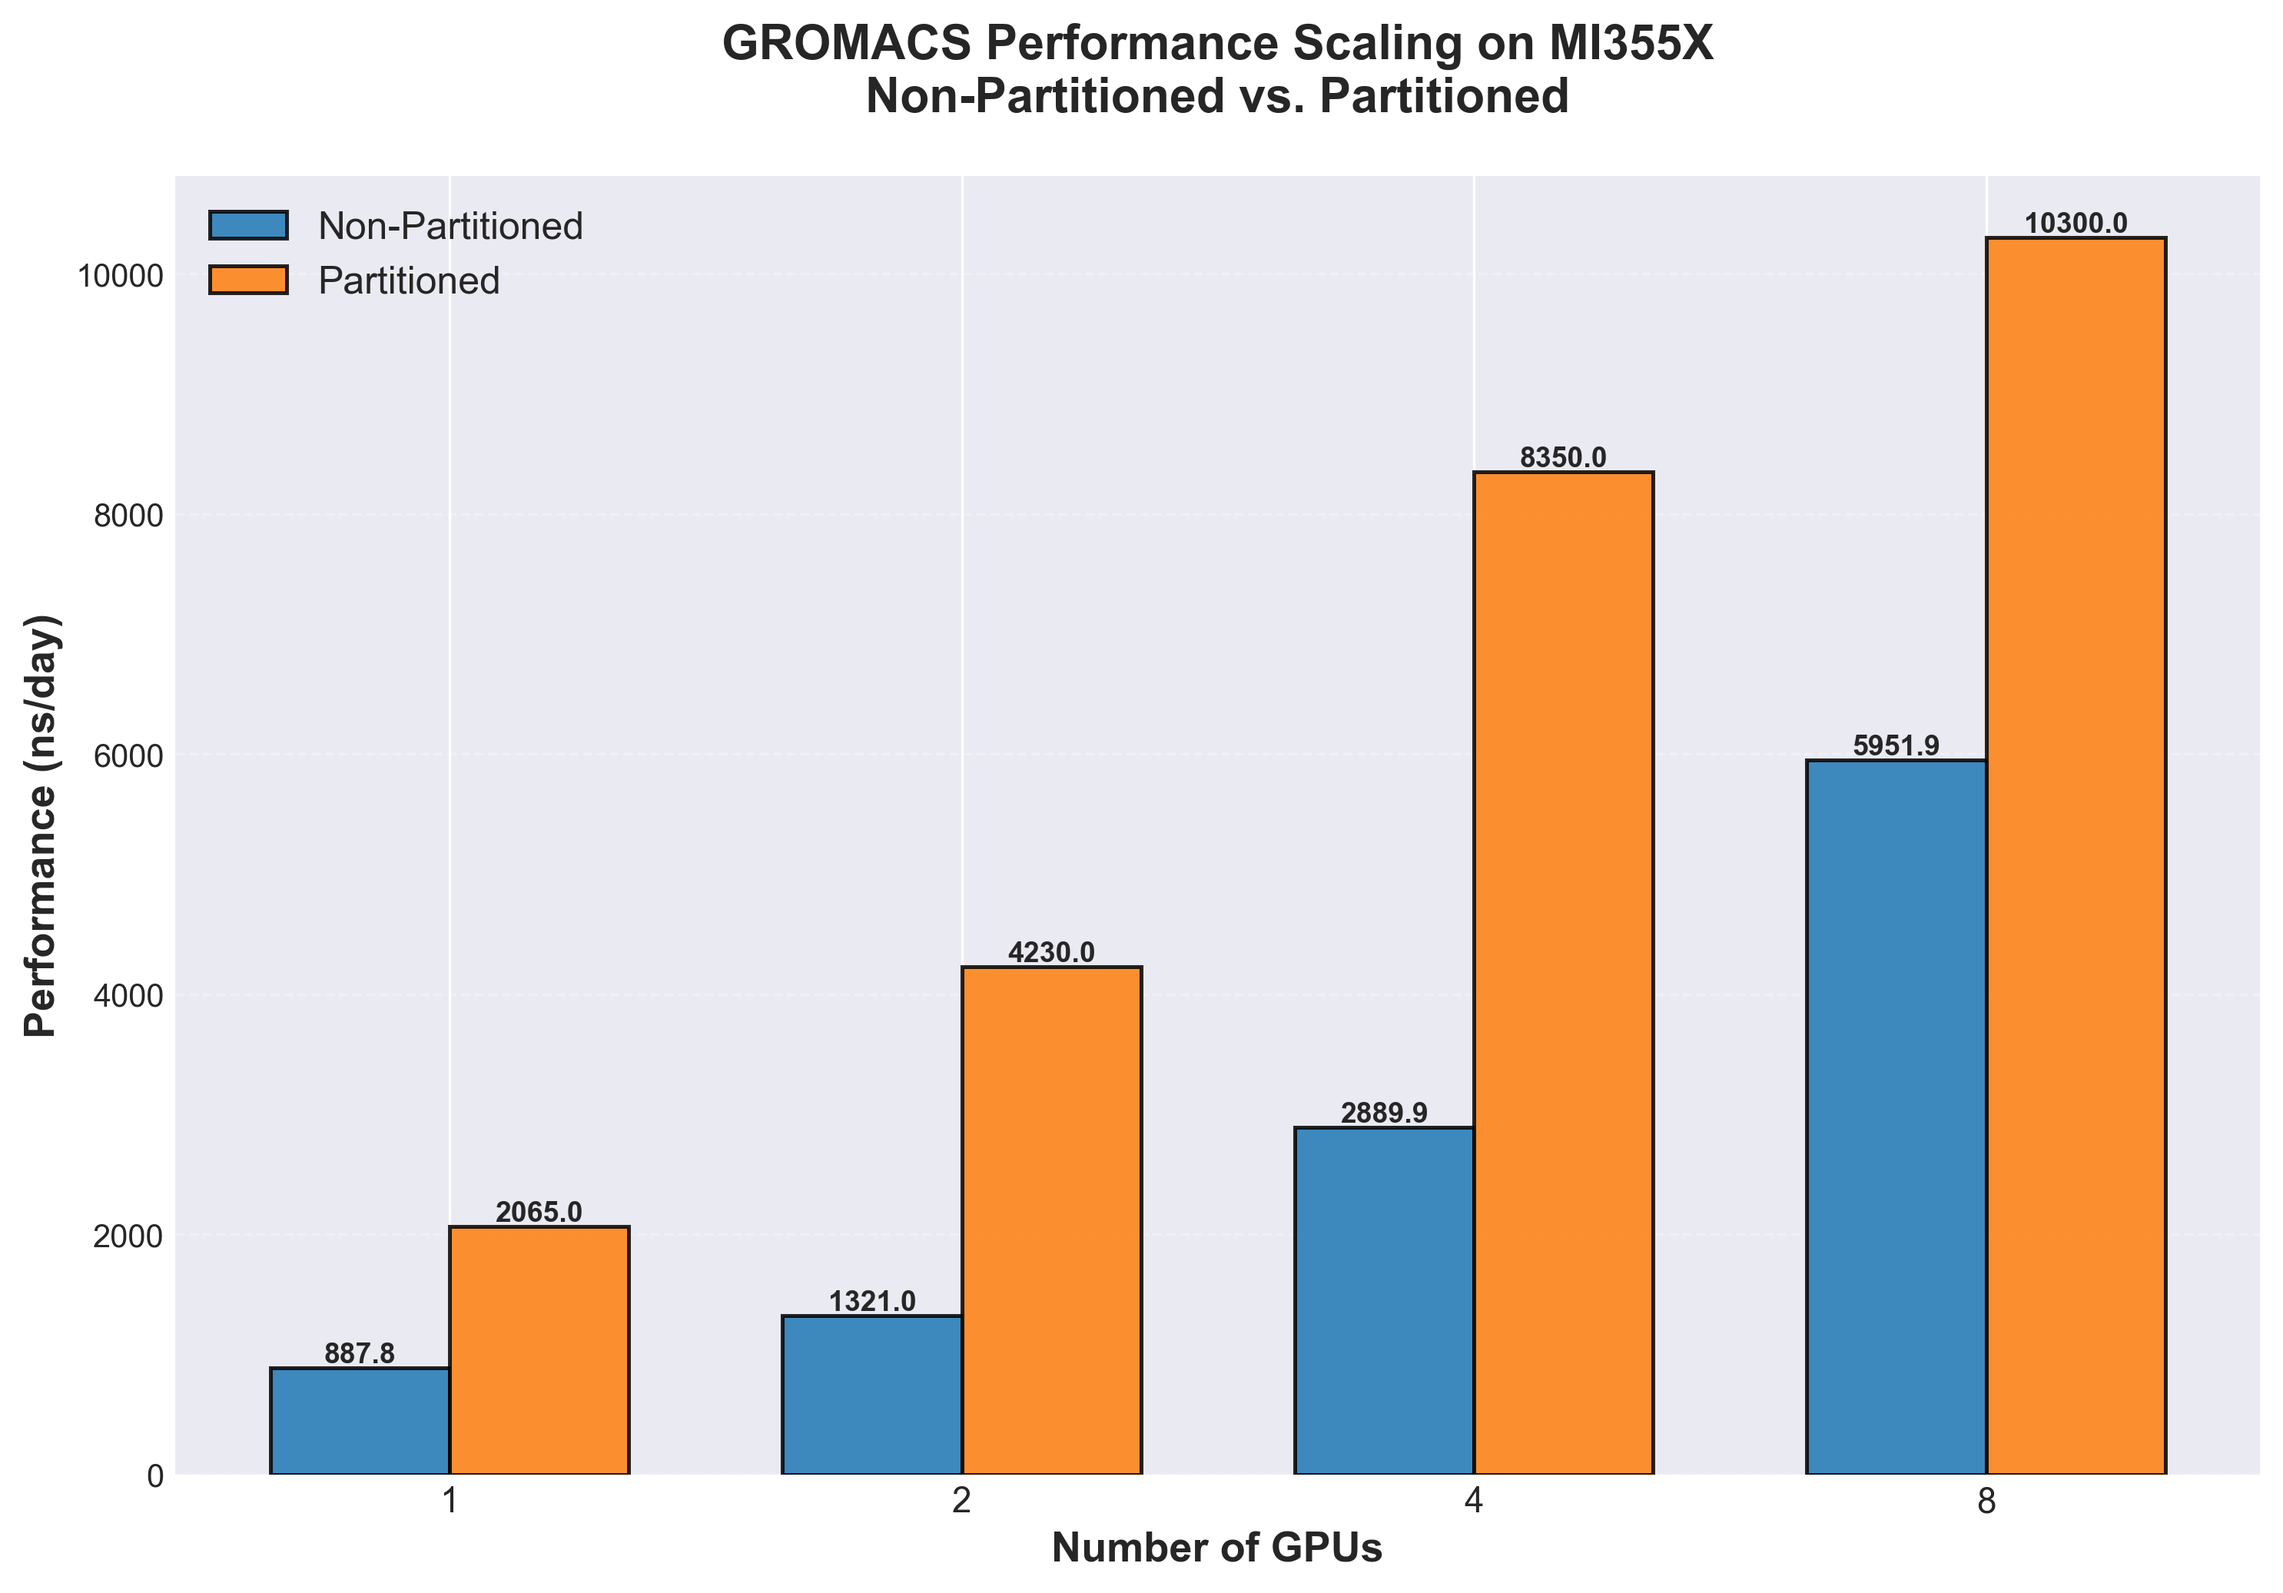
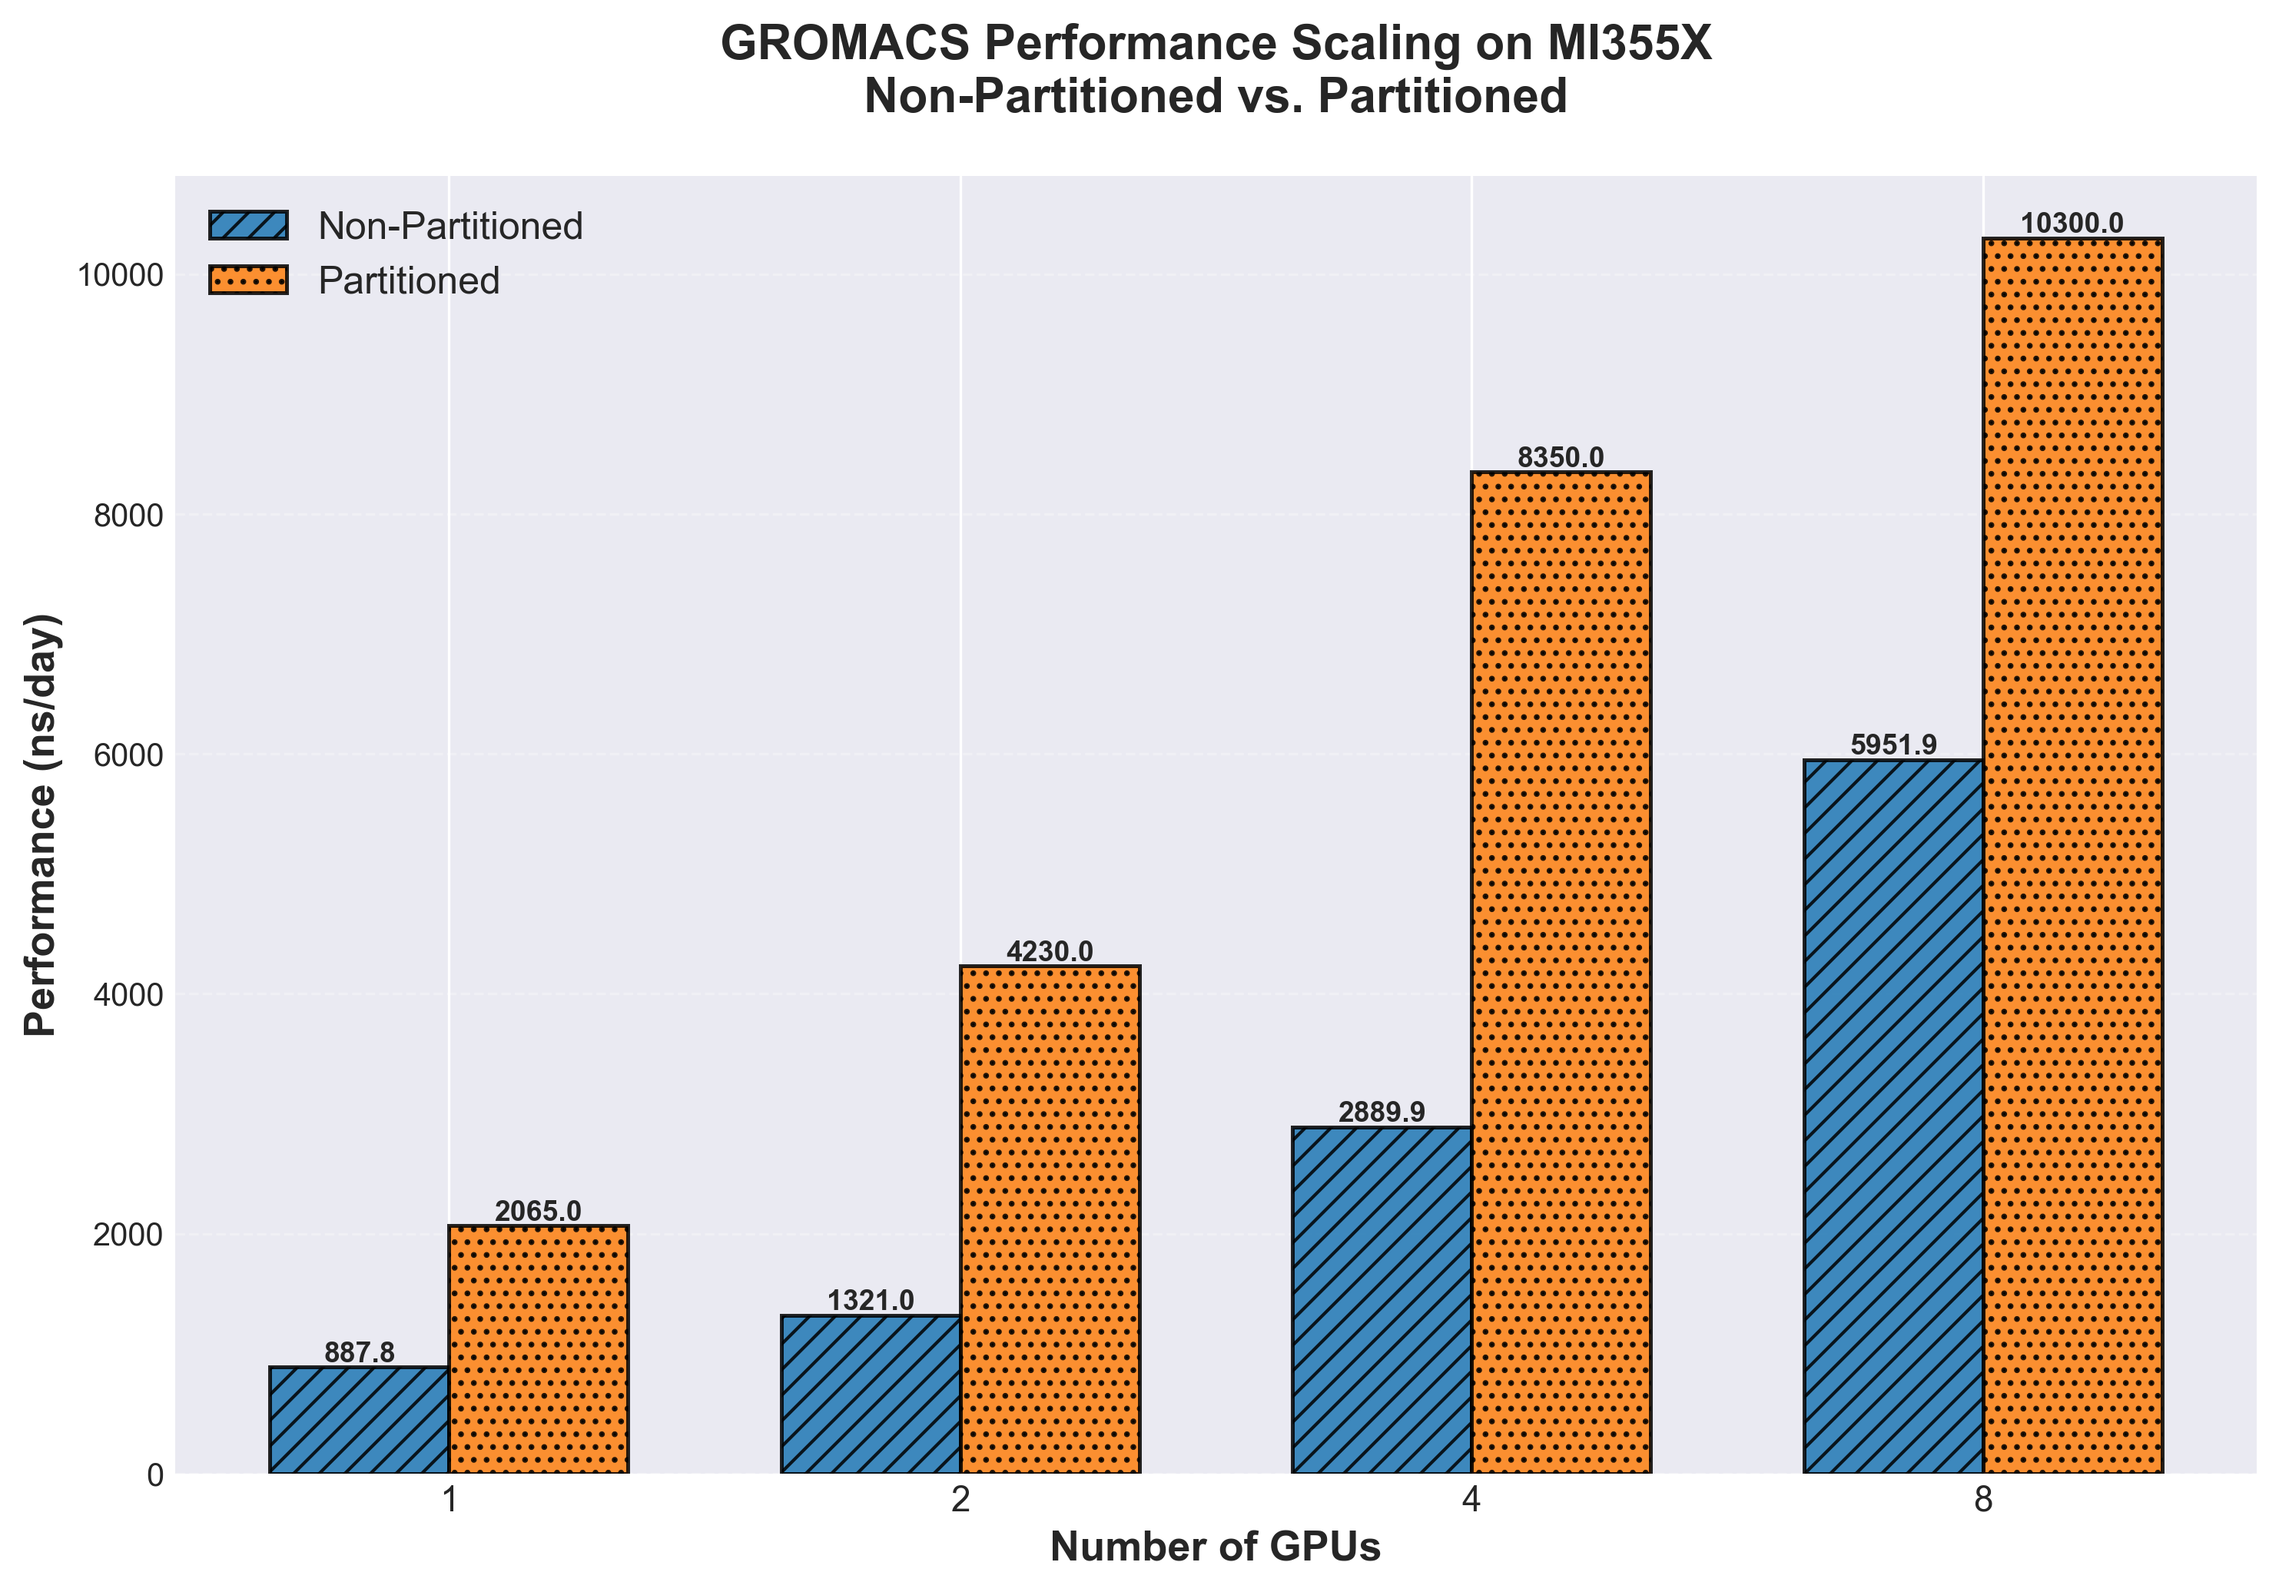
Update blog mi355 gromacs benchmarks (#2220)
* Updating graphs to be more colorblind friendly

* Adding additional references to GROMACS blogs: LUMI build guide

* Adding further explanation to what SPX and CPX refers to in the table 4 and 5 captions

* Address remaining review comments from amdmittul on PR #1966

- Add GROMACS multidir docs reference
- Clarify why dual-socket server matters
- Clarify ADH relevance for drug interaction studies with reference
- Expand table/figure captions with SPX/CPX explanation
- Explain scaling plateau at 8 GPUs and apply suggested text
- Qualify practical implications for system size

* Update .authorlist.txt on branch with open PR

* Adding an update text at the bottom of the blog

* Update date for README.md

---------

diff --git a/blogs/artificial-intelligence/mi355-gromacs-benchmarks/README.md b/blogs/artificial-intelligence/mi355-gromacs-benchmarks/README.md
@@ -58,7 +58,7 @@ Molecular dynamics (MD) simulations are essential for understanding biomolecular
 Before diving into the benchmarks, here is what you should know:
 
 - **GROMACS basics**: Familiarity with running GROMACS simulations helps, but is not required. We provide context where needed.
-- **Multidir runs**: GROMACS multidir launches multiple independent simulation replicas in parallel. This approach suits ensemble MD, free-energy screening, and parameter sweeps.
+- **Multidir runs**: GROMACS [multidir](https://manual.gromacs.org/current/user-guide/mdrun-features.html#running-multi-simulations) launches multiple independent simulation replicas in parallel. This approach suits ensemble MD, free-energy screening, and parameter sweeps.
 
 For details on GPU compute partitioning and how to run GROMACS multidir workloads, see [Applying GPU Compute Partitioning for GPU Workloads](https://rocm.blogs.amd.com/artificial-intelligence/gpu-partitioning-workloads/README.html).
 
@@ -66,7 +66,7 @@ For details on GPU compute partitioning and how to run GROMACS multidir workload
 
 ### Test System
 
-We ran all benchmarks on a dual-socket server with the following configuration (see [Table 1](#tab1)):
+We ran all benchmarks on a dual-socket server with the following configuration (see [Table 1](#tab1)). A dual-socket setup provides the CPU core count needed to keep up with many concurrent GPU replicas, since GROMACS offloads most work to GPUs but still relies on CPUs for tasks like [pair list regeneration](https://manual.gromacs.org/current/reference-manual/algorithms/molecular-dynamics.html#pair-lists-generation):
 
 <a id="tab1"></a>
 | Component | Specification |
@@ -78,7 +78,7 @@ We ran all benchmarks on a dual-socket server with the following configuration (
 
 ### Benchmark Workload
 
-The ADH dodec (alcohol dehydrogenase dodecahedron) system serves as our test case. ADH is a crucial enzyme for metabolizing alcohol and other biological substances, making it a relevant model for drug interaction studies. This medium-sized biomolecular benchmark represents realistic production workloads and is widely used for GPU performance evaluation in the MD community.
+The ADH dodec (alcohol dehydrogenase dodecahedron) system serves as our test case. ADH is a crucial enzyme for metabolizing alcohol and other substrates in the body. Since many drugs are processed through the same metabolic pathways, simulating ADH helps researchers [predict drug metabolism and potential toxicity](https://doi.org/10.1208/s12248-020-00536-y). This medium-sized biomolecular benchmark represents realistic production workloads and is widely used for GPU performance evaluation in the MD community.
 
 ### Partitioning Modes
 
@@ -102,12 +102,12 @@ Let's examine the benchmark data. All performance figures are in ns/day (nanosec
 | CPX (Partitioned) | 1,570 ns/day | 2,822 ns/day | 6,022 ns/day | 8,026 ns/day |
 | **Speedup** | **2.43x** | **2.48x** | **2.47x** | **1.78x** |
 
-**Table 2:** MI300X GROMACS performance with ADH dodec benchmark
+**Table 2:** MI300X GROMACS performance with ADH dodec benchmark. SPX (non-partitioned) uses one logical GPU per physical card; CPX (partitioned) exposes each XCD as an independent GPU. Higher ns/day is better.
 
 <a id="fig1"></a>
 <img src="images/gromacs_mi300x_performance.png" alt="GROMACS MI300X performance comparison" width="100%">
 
-*Figure 1: MI300X multidir throughput in SPX (blue) vs. CPX (orange) mode. Higher ns/day is better.*
+*Figure 1: MI300X multidir throughput comparing SPX (non-partitioned) and CPX (partitioned) modes across 1-8 GPUs. CPX mode exposes each XCD as an independent GPU, boosting aggregate throughput for independent replicas. Higher ns/day is better.*
 
 As shown in [Figure 1](#fig1), partitioning delivers substantial gains—up to 2.47x at 4 GPUs. Even at 8 GPUs, where CPU resources start to limit scaling, you still see a 1.78x improvement.
 
@@ -122,12 +122,12 @@ Now let's look at MI355X. [Table 3](#tab3) shows how the next-generation archite
 | CPX (Partitioned) | 2,065 ns/day | 4,230 ns/day | 8,350 ns/day | 10,300 ns/day |
 | **Speedup** | **2.33x** | **3.20x** | **2.89x** | **1.73x** |
 
-**Table 3:** MI355X GROMACS performance with ADH dodec benchmark
+**Table 3:** MI355X GROMACS performance with ADH dodec benchmark. SPX (non-partitioned) uses one logical GPU per physical card; CPX (partitioned) exposes each XCD as an independent GPU. Higher ns/day is better.
 
 <a id="fig2"></a>
 <img src="images/gromacs_mi355x_performance.png" alt="GROMACS MI355X performance comparison" width="100%">
 
-*Figure 2: MI355X multidir throughput in SPX (blue) vs. CPX (orange) mode. Higher ns/day is better.*
+*Figure 2: MI355X multidir throughput comparing SPX (non-partitioned) and CPX (partitioned) modes across 1-8 GPUs. CPX mode exposes each XCD as an independent GPU, boosting aggregate throughput for independent replicas. Higher ns/day is better.*
 
 As seen in [Figure 2](#fig2), MI355X reaches 10,300 ns/day with 8 GPUs in CPX mode. The 2-GPU configuration shows a remarkable 3.20x speedup from partitioning, indicating excellent scaling efficiency at that scale.
 
@@ -143,7 +143,7 @@ How much faster is MI355X? [Table 4](#tab4) and [Table 5](#tab5) quantify the ge
 | 4 GPUs | 8,350 ns/day | 6,022 ns/day | **+38.7%** |
 | 8 GPUs | 10,300 ns/day | 8,026 ns/day | **+28.3%** |
 
-**Table 4:** MI355X advantage over MI300X with GPU partitioning enabled
+**Table 4:** MI355X advantage over MI300X **with** GPU partitioning enabled (CPX)
 
 For non-partitioned workloads, [Table 5](#tab5) shows MI355X still outperforms:
 <a id="tab5"></a>
@@ -154,7 +154,7 @@ For non-partitioned workloads, [Table 5](#tab5) shows MI355X still outperforms:
 | 4 GPUs | 2,890 ns/day | 2,435 ns/day | **+18.7%** |
 | 8 GPUs | 5,952 ns/day | 4,507 ns/day | **+32.1%** |
 
-**Table 5:** MI355X performance advantage over MI300X without GPU partitioning
+**Table 5:** MI355X performance advantage over MI300X **without** GPU partitioning (SPX)
 
 ## Discussion
 
@@ -166,7 +166,7 @@ The benchmarks reveal several important insights:
 
 **GPU partitioning benefits both architectures.** Both MI300X and MI355X show 1.7x to 3.2x speedups when using CPX mode for multidir workloads (see [Figure 1](#fig1) and [Figure 2](#fig2)). This technique is essential for maximizing throughput in ensemble MD scenarios.
 
-**Scaling efficiency varies with GPU count.** At 8 GPUs with 128 replicas, speedups from partitioning are slightly lower (1.73-1.78x). At this scale, system resources may become a limiting factor as replica count increases.
+**Scaling efficiency varies with GPU count.** At 8 GPUs with 128 replicas, speedups from partitioning are slightly lower (1.73-1.78x), yet this configuration still delivers the best absolute performance for the ADH system. At this scale, a large number of concurrent replicas compete for shared system resources such as CPU cores and memory bandwidth, which can constrain the per-replica throughput and reduce the relative benefit of partitioning.
 
 ```{note}
 The ADH benchmarks are configured to offload all compute-intensive work to the GPU, keeping the CPU off the critical path. However, pair list regeneration &mdash; an infrequent but potentially expensive step &mdash; remains CPU-bound. Systems with more physical CPU cores can reduce the overhead of this step, particularly at high replica counts where many pair list updates may coincide.
@@ -179,6 +179,7 @@ Whether you are a researcher running production simulations or a developer optim
 - **Leverage GPU partitioning on both MI300X and MI355X.** Enabling CPX mode delivers 1.7-3.2x throughput gains for multidir workloads on either GPU generation. This is a straightforward configuration change that benefits any ensemble-style simulation campaign.
 - **MI355X offers the highest throughput.** For new deployments or hardware refreshes, MI355X provides 28%+ performance improvement over MI300X, enabling faster iteration on research questions and shorter queue times for batch jobs.
 - **Balance compute resources.** Tune the number of concurrent replicas for optimal performance, especially at very high replica counts.
+- **Consider your system size.** These benchmarks use ADH dodec, a medium-sized system well-suited for GPU acceleration. Larger molecular systems with different computational profiles may show different scaling characteristics.
 
 ## Summary
 
@@ -197,6 +198,13 @@ For life-science researchers running ensemble MD simulations, free-energy calcul
 - [Applying GPU Compute Partitioning for GPU Workloads](https://rocm.blogs.amd.com/artificial-intelligence/gpu-partitioning-workloads/README.html)
 - [Deep Dive into MI300 Compute and Memory Partition Modes](https://rocm.blogs.amd.com/software-tools-optimization/compute-memory-modes/README.html)
 - [GPU Partitioning Made Easy](https://rocm.blogs.amd.com/software-tools-optimization/gpu-operator-partitioning/README.html)
+- [Installing AMD HIP-enabled GROMACS on HPC Systems](https://rocm.blogs.amd.com/artificial-intelligence/gromacs-lumi-guide/README.html)
+
+```{update} Jun. 2, 2026
+- Updated figures with colorblind-friendly patterns
+- Clarified SPX/CPX in captions and table descriptions
+- Additional reading references
+```
 
 ## Disclaimers
 
